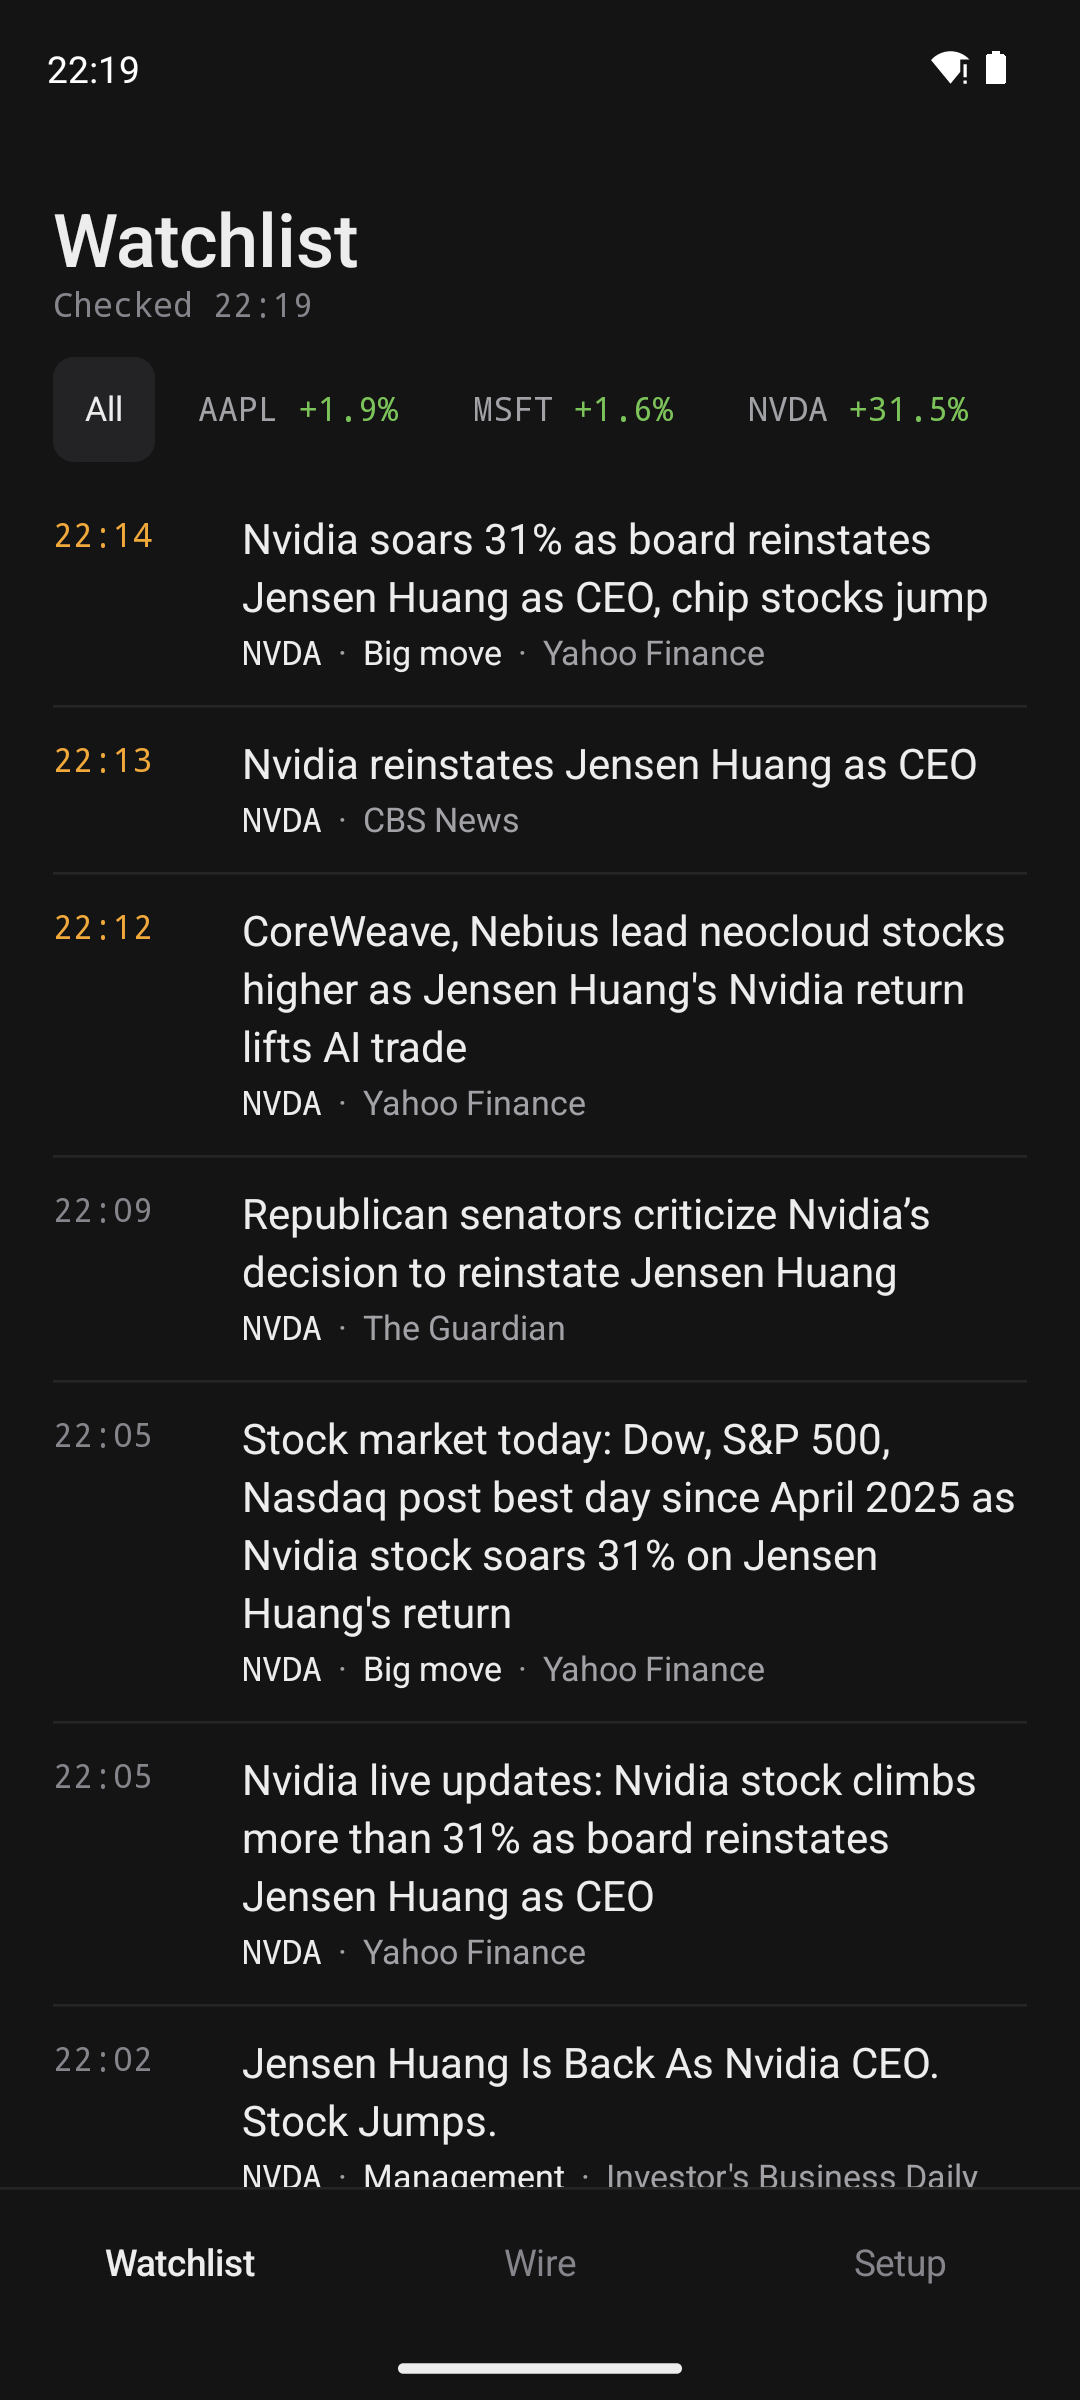
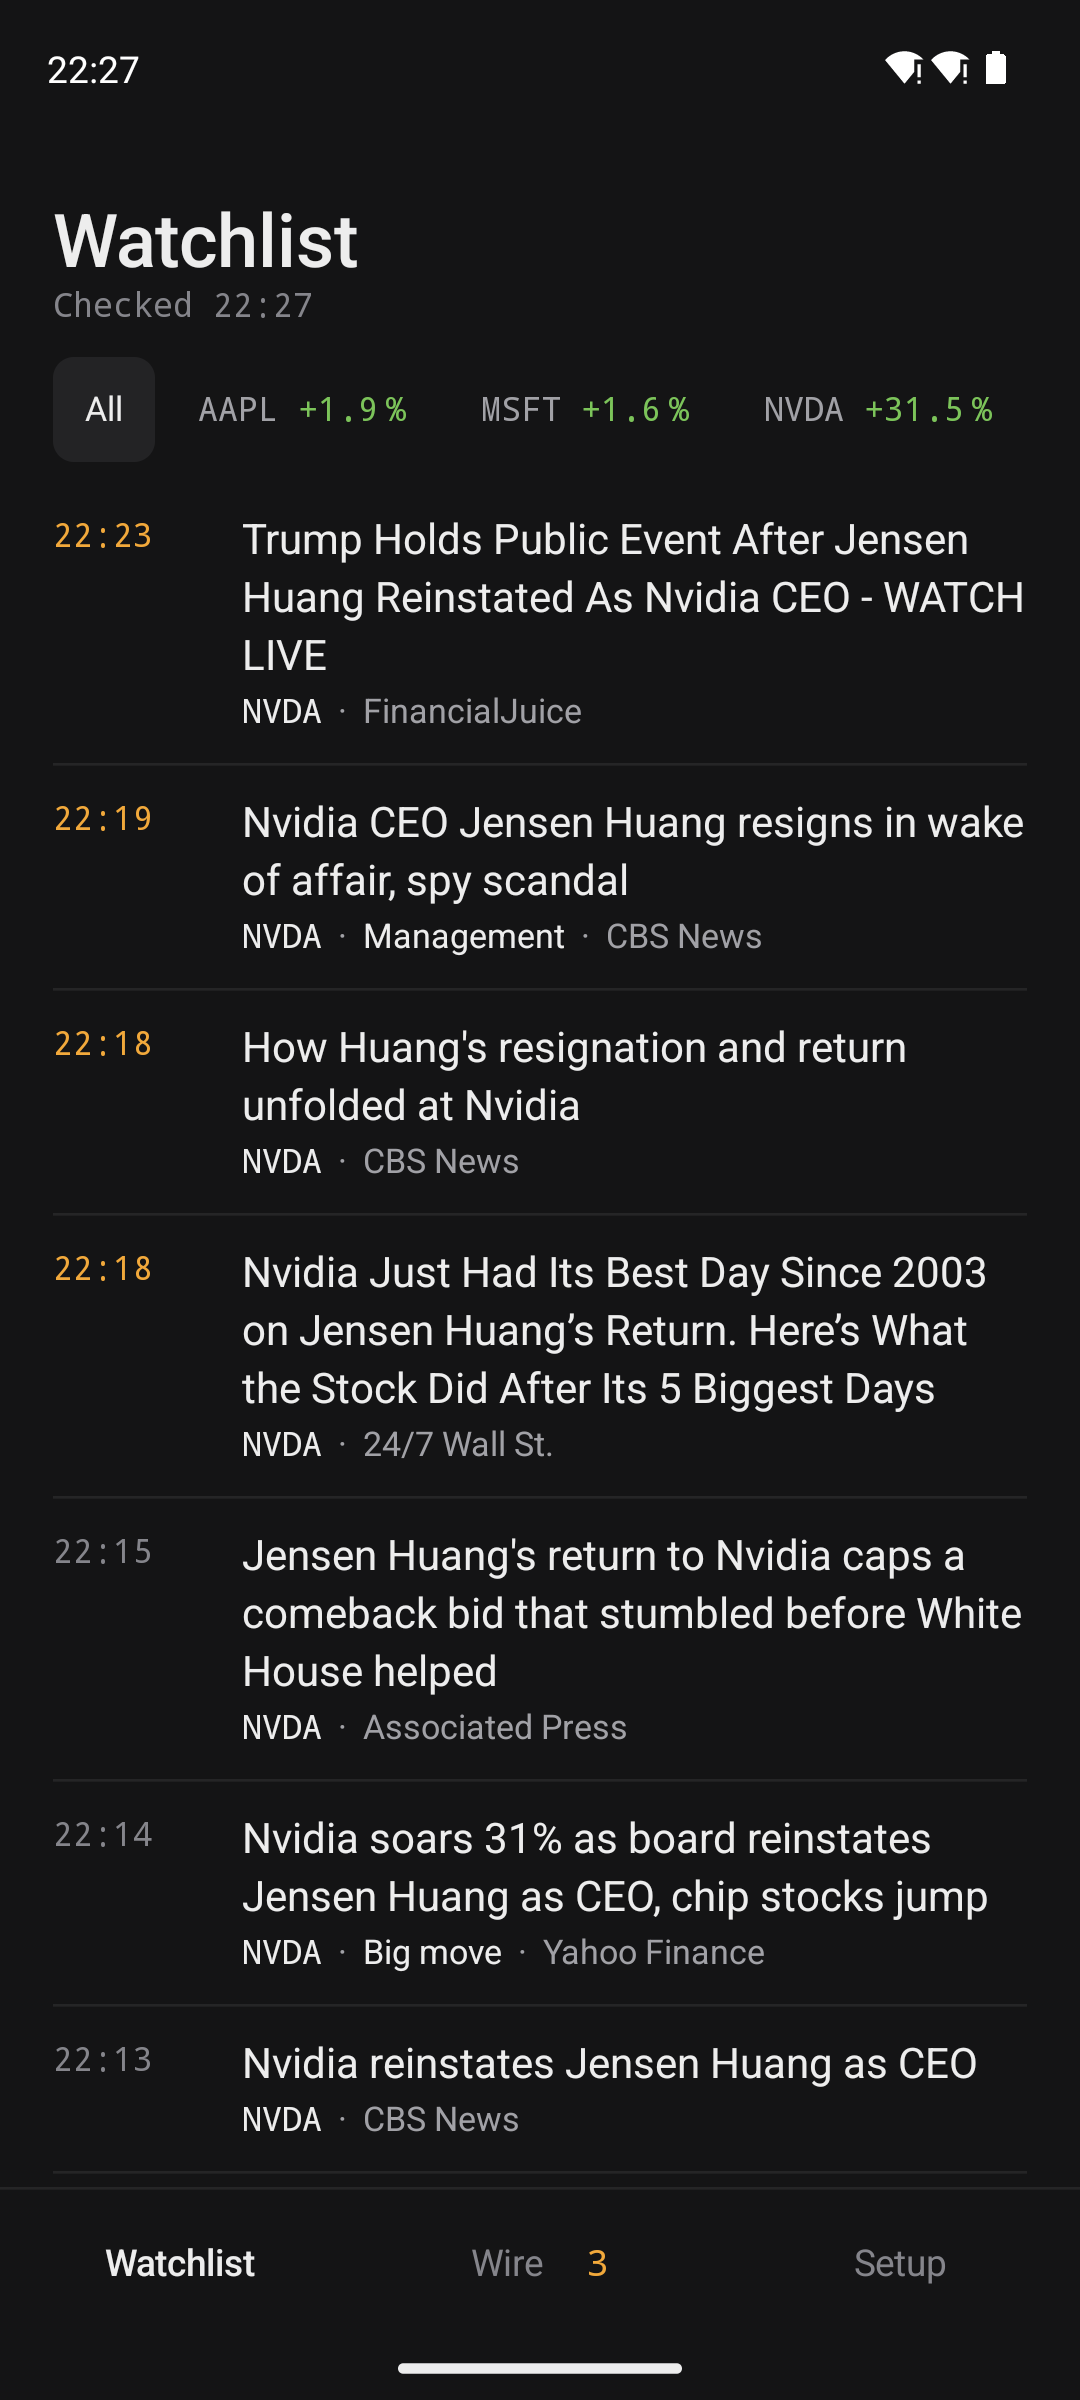
Tape 0.2.1: unslop + no-ai-slop über die v0.2-Teile
- unslop: Prozent überall im selben Format (schmales geschütztes Leerzeichen), Alarmwort-Zeilen 56 dp wie die übrigen Zeilen
- no-ai-slop: unbelegte Aussage zu europäischen Aktien als Unsicherheit, Setup-Hinweis im Aktiv
- Führungswechsel erkennt auch "reinstated/reinstates"
- README-Screenshots mit Kurs-Chips und Alarm-Einrichtung

diff --git a/app/src/main/java/io/github/brickystudios/tape/Alerts.kt b/app/src/main/java/io/github/brickystudios/tape/Alerts.kt
@@ -32,7 +32,7 @@ object Alerts {
         Kind.EARNINGS to rx("""\b(earnings|results|guidance|beats|misses|Q[1-4]|quarterly|revenue|EPS|profit warning)\b"""),
         Kind.ANALYST to rx("""\b(upgrades?|upgraded|downgrades?|downgraded)\b"""),
         Kind.DEAL to rx("""\b(acquires?|acquired|acquisition|merger|buyout|takeover|bid for)\b"""),
-        Kind.MANAGEMENT to rx("""\b(CEO|CFO|chief executive)\b.*\b(resigns?|resignation|steps? down|appoints?|appointed|named|ousted|fired|departs?|departure|returns?|succeeds?|successor)\b|\b(resigns?|steps? down|appoints?|ousted|fired|returns?|back as)\b.*\b(CEO|CFO|chief executive)\b"""),
+        Kind.MANAGEMENT to rx("""\b(CEO|CFO|chief executive)\b.*\b(resigns?|resignation|steps? down|appoints?|appointed|named|ousted|fired|departs?|departure|returns?|reinstated|reinstates|succeeds?|successor)\b|\b(resigns?|steps? down|appoints?|ousted|fired|returns?|back as|reinstated|reinstates)\b.*\b(CEO|CFO|chief executive)\b"""),
         Kind.LEGAL to rx("""\b(lawsuit|sues|sued|SEC|DOJ|FTC|FDA|probe|investigation|antitrust|subpoena|fined|recalls?|class action|indicted)\b"""),
         Kind.HALT to rx("""\b(halted|halts trading|trading halt|bankruptcy|bankrupt|chapter 11|delisted|delisting)\b"""),
         Kind.CAPITAL to rx("""\b(buybacks?|repurchase|stock split|share offering|secondary offering|dividend (cut|hike|increase|raise|suspension))\b"""),

diff --git a/app/src/main/java/io/github/brickystudios/tape/Setup.kt b/app/src/main/java/io/github/brickystudios/tape/Setup.kt
@@ -141,7 +141,7 @@ fun Setup(now: Long, onFavorites: (List<Favorite>) -> Unit) {
                     Alerts.THRESHOLDS.forEach { t ->
                         val on = t == threshold
                         Text(
-                            "±$t %",
+                            "±$t\u202F%",
                             Modifier.clip(RoundedCornerShape(8.dp)).background(if (on) Raised else Ink).clickable { threshold = t; store.threshold = t }.padding(horizontal = 16.dp, vertical = 8.dp),
                             fontSize = 14.sp, fontFamily = FontFamily.Monospace, color = if (on) Text1 else Text2,
                         )
@@ -157,7 +157,7 @@ fun Setup(now: Long, onFavorites: (List<Favorite>) -> Unit) {
             }
         }
         items(words, key = { "word:" + it }) { w ->
-            Row(Modifier.fillMaxWidth().heightIn(min = 48.dp).clickable { saveWords(words - w) }, verticalAlignment = Alignment.CenterVertically) {
+            Row(Modifier.fillMaxWidth().heightIn(min = 56.dp).clickable { saveWords(words - w) }, verticalAlignment = Alignment.CenterVertically) {
                 Text(w, Modifier.weight(1f), fontSize = 16.sp, color = Text1, maxLines = 1, overflow = TextOverflow.Ellipsis)
                 Text(stringResource(R.string.remove), fontSize = 14.sp, color = Text3)
             }

diff --git a/app/src/test/java/io/github/brickystudios/tape/AlertsTest.kt b/app/src/test/java/io/github/brickystudios/tape/AlertsTest.kt
@@ -27,6 +27,7 @@ class AlertsTest {
         assertEquals(Kind.DEAL, Alerts.kind("Microsoft to acquire gaming studio for \$2 billion", "Bloomberg"))
         assertEquals(Kind.MANAGEMENT, Alerts.kind("Huang returns as Nvidia CEO after board reversal", "Reuters"))
         assertEquals(Kind.MANAGEMENT, Alerts.kind("Jensen Huang Is Back As Nvidia CEO. Stock Jumps.", "IBD"))
+        assertEquals(Kind.MANAGEMENT, Alerts.kind("Event after Jensen Huang reinstated as Nvidia CEO", "FinancialJuice"))
         assertEquals(Kind.LEGAL, Alerts.kind("FTC sues Amazon over Prime cancellations", "AP"))
         assertEquals(Kind.HALT, Alerts.kind("Trading halted in shares of Example Corp", "Nasdaq"))
         assertEquals(Kind.CAPITAL, Alerts.kind("Apple announces \$110 billion buyback", "CNBC"))

diff --git a/app/src/main/java/io/github/brickystudios/tape/MainActivity.kt b/app/src/main/java/io/github/brickystudios/tape/MainActivity.kt
@@ -167,7 +167,7 @@ private fun SymbolFilter(symbols: List<String>, quotes: Map<String, Quote>, sele
             Text(
                 buildAnnotatedString {
                     append(s ?: stringResource(R.string.all))
-                    if (q != null) withStyle(SpanStyle(color = if (q.change >= 0) Up else Down)) { append(" " + percent(q.change).replace(" ", "")) }
+                    if (q != null) withStyle(SpanStyle(color = if (q.change >= 0) Up else Down)) { append(" " + percent(q.change)) }
                 },
                 Modifier.clip(RoundedCornerShape(8.dp)).background(if (on) Raised else Ink).clickable { onSelect(s) }.padding(horizontal = 12.dp, vertical = 8.dp),
                 fontSize = 13.sp,

diff --git a/app/src/main/java/io/github/brickystudios/tape/Notify.kt b/app/src/main/java/io/github/brickystudios/tape/Notify.kt
@@ -20,8 +20,8 @@ import java.util.Date
 import java.util.Locale
 import kotlin.math.abs
 
-/** Signed percent the same way everywhere: "+31.5 %", "−5.2 %". */
-fun percent(change: Double): String = String.format(Locale.getDefault(), "%+.1f %%", change).replace('-', '−')
+/** Signed percent the same way everywhere, chips, pushes and Setup: "+31.5 %", "−5.2 %" with a narrow no-break space. */
+fun percent(change: Double): String = String.format(Locale.getDefault(), "%+.1f\u202F%%", change).replace('-', '−')
 
 object Notify {
     private const val PRICES = "prices"

diff --git a/README.md b/README.md
@@ -80,7 +80,7 @@ Tape shows the headline and links to the source. It copies no articles and keeps
 - A headline that never names the company is missed, even when the article is about it.
 - No earnings or dividend calendar yet: Yahoo's endpoint for it needs a login token.
 - Symbols with one or two letters (`PG`, `GE`) only match by company name, because the letters turn up in too many abbreviations. Tape knows a few other names: `Google` for Alphabet, `P&G` for Procter & Gamble, `Facebook` for Meta.
-- English-language sources. News on European stocks is thin.
+- The sources are English-language, so news on European stocks may be sparse.
 - Nothing in Tape is investment advice.
 
 ## Build it yourself
